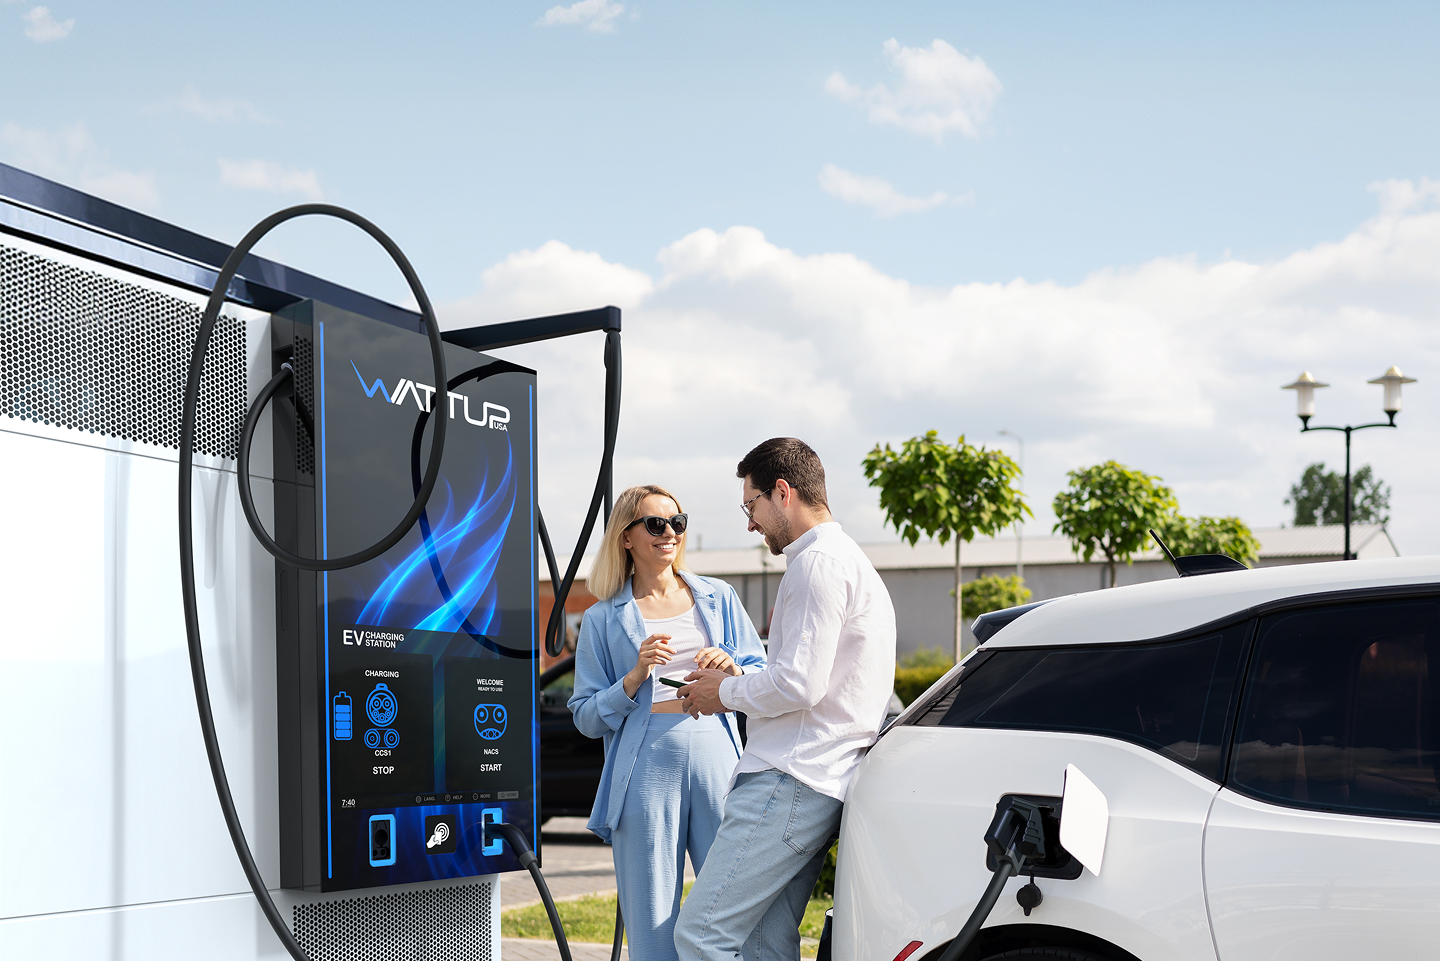
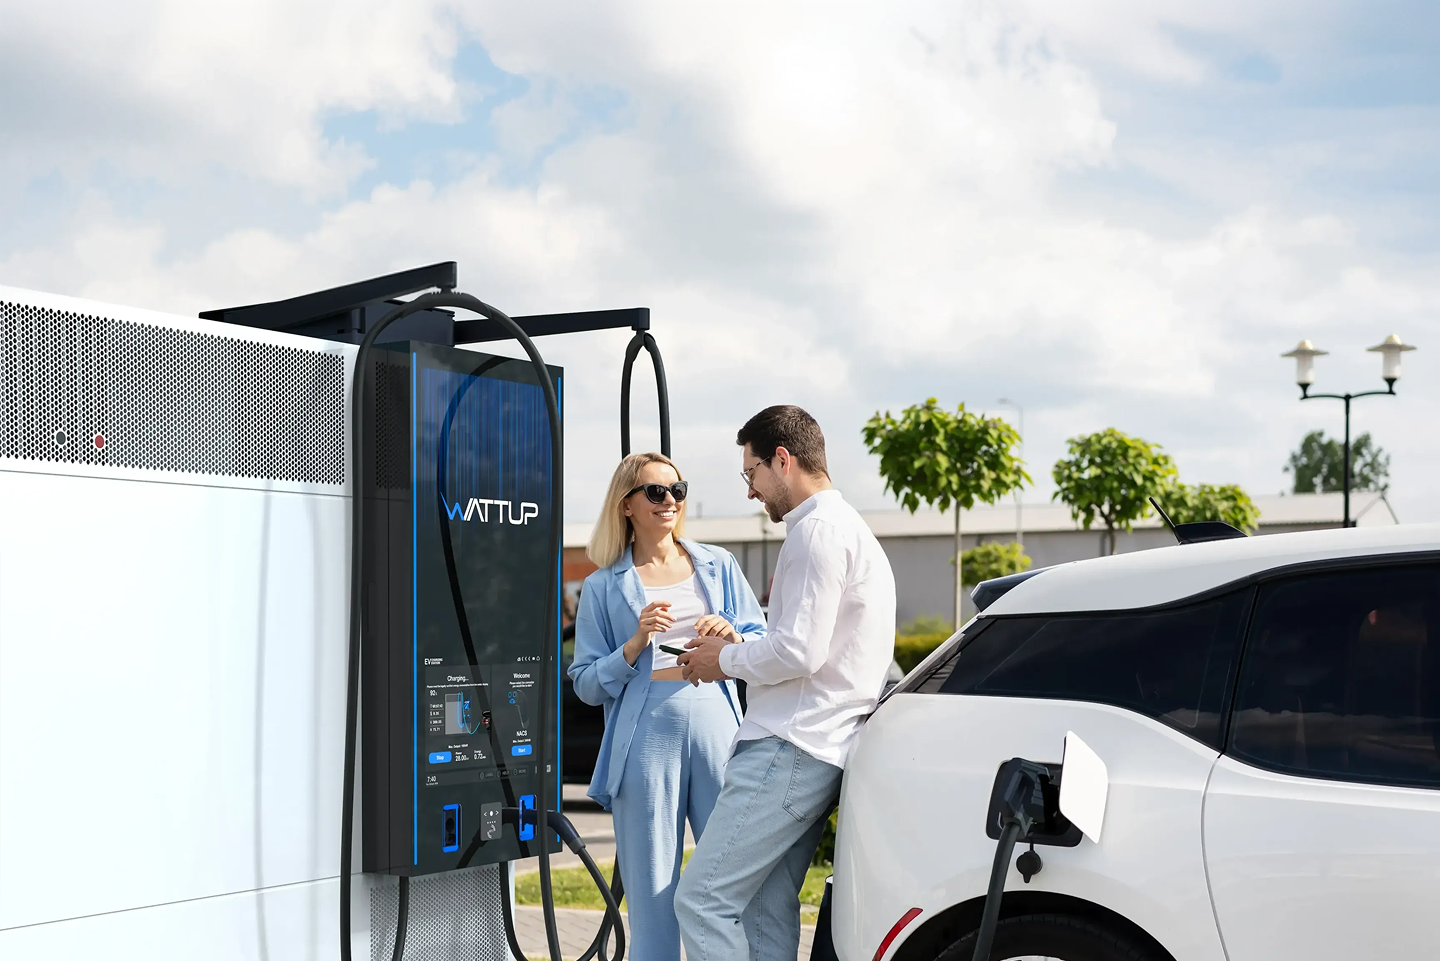
Refactor code structure for improved readability and maintainability

diff --git a/lib/images/home.ts b/lib/images/home.ts
@@ -22,7 +22,7 @@ export const homeImages = {
     homepageHero5: 'homepage-hero-5_icjktz',
 
     slide_1_full: 'slide-1_yq5l8a',
-    slide_1_layered: 'slide_1_layered_gxcgdw',
+    slide_1_layered: 'slide_1_layered_unuk3w',
     slide_1_layered_mobile: 'slide_1_mobile_thg9t0',
     slide_1_full_mobile: 'slide-1-layered_yq5l8a',
 
@@ -60,7 +60,7 @@ export const homeImages = {
 
     // Other
     footerSectionBg: 'footer-section-bg_folbzx',
-    locationMarqueBg: 'location-marque-bg_jvj3y4',
+    locationMarqueBg: 'location-marque-bg_iiov3q',
     locationMarqueBgMobile: 'location-marque-bg-mobile_inq3ca',
 };
 
@@ -70,6 +70,8 @@ export const homeImages = {
 export const homeImageUrls = Object.fromEntries(
     Object.entries(homeImages).map(([key, id]) => [key, cloudinaryUrl(id)])
 ) as Record<keyof typeof homeImages, string>;
+
+
 
 
 

diff --git a/lib/images/shared.ts b/lib/images/shared.ts
@@ -10,8 +10,8 @@ export const sharedImages = {
     cardImage5: 'card-image-4_t4ibeu',
     faviconDarkSq: 'favicon-Dark-sq_smwilz',
     faviconLightSq: 'favicon-light-sq_jjl3ib',
-    howItWorks1: 'how-it-works-1_qcgpkm',
-    howItWorks2: 'how-it-works-2_ygplq3',
+    howItWorks1: 'how-it-works-1_e5kxxo',
+    howItWorks2: 'how-it-works-2_tjoj6i',
     howItWorks3: 'how-it-works-3_xkxjzt',
     howItWorks4: 'how-it-works-4_yhkt7i',
     howItWorks5: 'how-it-works-5_yencir',
@@ -23,6 +23,8 @@ export const sharedImages = {
 export const sharedImageUrls = Object.fromEntries(
     Object.entries(sharedImages).map(([key, id]) => [key, cloudinaryUrl(id)])
 ) as Record<keyof typeof sharedImages, string>;
+
+
 
 
 